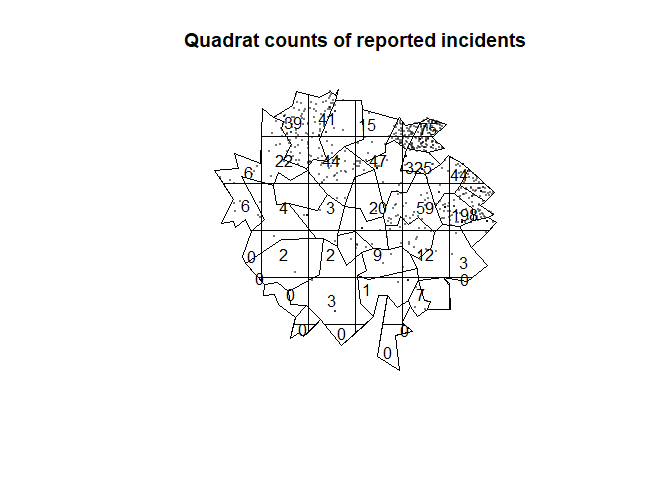
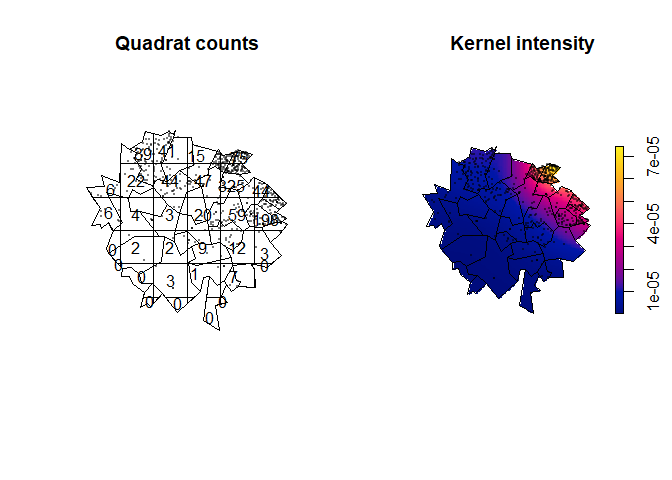
Draft 1

diff --git a/coursework_02.md b/coursework_02.md
@@ -29,25 +29,20 @@ na_summary <- tibble(dataset = c("incidents", "ward profiles", "ward polygons"),
 profiles_clean <- profiles %>%
   mutate(rental_share = parse_number(rental_share),
          ward_name = str_replace_all(ward_name, "-" , " "))
-
-na_summary
 ```
 
-    # A tibble: 3 × 2
-      dataset       missing_values
-      <chr>                  <int>
-    1 incidents                  0
-    2 ward profiles              6
-    3 ward polygons              0
-
 I loaded the ward boundary polygons, ward profile data and incident
-reports. The incident and ward polygon files had no missing values,
-while the ward profile file had 6 missing values; these were retained
-and handled using available cases where relevant. I converted
-rental_share from percentage text to a numeric variable. I also
-standardized ward names in the profile file by replacing hyphens with
-spaces, although later joins use ward_id rather than ward_name to avoid
-relying on name formatting.
+reports.
+
+The incident and ward polygon files had no missing values, while the
+ward profile file had 6 missing values; these were retained and handled
+using available cases where relevant.
+
+I converted rental_share from percentage text to a numeric variable.
+
+I also standardized ward names in the profile file by replacing hyphens
+with spaces, although later joins use ward_id rather than ward_name to
+avoid relying on name formatting.
 
 # Task 1
 
@@ -85,35 +80,34 @@ wards_incident <- wards %>%
          area_km2 = as.numeric(st_area(geometry))/1000000,
          incident_density =  n_incidents / area_km2)
 
-#kernel-smoothed intensity for ppp and quadrat with 4cm
+#kernel-smoothed intensity for ppp and quadrat
 wards_window <- as.owin(st_union(wards))
 incident_coords = st_coordinates(incidents_sf)
+incident_ppp <-  ppp( x = incident_coords[,1] , y =incident_coords[,2] , window = wards_window)
 
-incident_ppp = ppp( x = incident_coords[,1] , y =incident_coords[,2] , window = wards_window)
-
+incident_intensity <-  density.ppp( x = incident_ppp , edge= TRUE)
 incident_quadrat6 <- quadratcount( incident_ppp, nx=6 , ny=6 )
-plot(incident_ppp,pch = 16,cex = 0.25,main = "Quadrat counts of reported incidents")
+
+par(mfrow = c(1,2))
+plot(incident_ppp, main = "", pch=16, cex=0.25)
+title("Quadrat counts", line = 1.5)
 plot(incident_quadrat6, add = TRUE)
 plot(st_geometry(wards),add = TRUE,lwd = 0.5)
-```
 
-![](coursework_02_files/figure-commonmark/task-1-code-1.png)
-
-``` r
-incident_intensity = density.ppp( x = incident_ppp , edge= TRUE)
-plot(incident_intensity,main = "Kernel-smoothed intensity of reported incidents")
+plot(incident_intensity,main = "")
+title("Kernel intensity", line = 1.5)
 plot(st_geometry(wards),add = TRUE,lwd = 0.5)
 plot(incident_ppp, add = TRUE, pch = 16,cex = 0.25)
 ```
 
-![](coursework_02_files/figure-commonmark/task-1-code-2.png)
+![](coursework_02_files/figure-commonmark/task-1-code-1.png)
 
 ``` r
 top_wards <- wards_incident %>% 
   st_drop_geometry() %>% 
   arrange(desc(n_incidents)) %>% 
   select(ward_id,ward_name, n_incidents, incident_density) %>% 
-  slice_head(n=10)
+  slice_head(n=5)
 
 top_wards %>%
   mutate(incident_density = round(incident_density, 1)) %>%
@@ -123,18 +117,13 @@ top_wards %>%
   )
 ```
 
-| Ward ID | Ward         | Incidents | Incident density |
-|:--------|:-------------|----------:|-----------------:|
-| W17     | Maple Cross  |       337 |            222.9 |
-| W25     | Saffron Lea  |       110 |            111.9 |
-| W08     | Market End   |        96 |             17.8 |
-| W11     | Hazel Row    |        95 |             55.6 |
-| W16     | Foxley       |        57 |             59.0 |
-| W26     | Mill Court   |        38 |             17.1 |
-| W13     | East Hollow  |        34 |             34.3 |
-| W02     | Riverstead   |        33 |              9.1 |
-| W28     | Falcon Heath |        27 |              8.8 |
-| W22     | Willow Bank  |        26 |              7.1 |
+| Ward ID | Ward        | Incidents | Incident density |
+|:--------|:------------|----------:|-----------------:|
+| W17     | Maple Cross |       337 |            222.9 |
+| W25     | Saffron Lea |       110 |            111.9 |
+| W08     | Market End  |        96 |             17.8 |
+| W11     | Hazel Row   |        95 |             55.6 |
+| W16     | Foxley      |        57 |             59.0 |
 
 Highest incident wards by coordinate-based ward assignment.
 
@@ -167,6 +156,14 @@ top_5_share
       share
       <dbl>
     1  70.4
+
+I converted the incident coordinates into an sf point layer using the
+same CRS as the ward polygons, then spatially joined each incident to
+the ward polygon containing it. This was preferred to relying only on
+the recorded ward name because 39 incidents had a recorded ward name
+that differed from the coordinate-based ward assignment. Subsequent ward
+counts therefore use the spatially assigned ward, so the analysis
+reflects the actual incident locations.
 
 The incident records were treated as point pattern data, since each row
 records an event location. A 6 × 6 quadrat count showed strong spatial
@@ -235,18 +232,7 @@ scree_plot
 
 ``` r
 library(patchwork)
-```
 
-    Warning: package 'patchwork' was built under R version 4.4.3
-
-
-    Attaching package: 'patchwork'
-
-    The following object is masked from 'package:spatstat.geom':
-
-        area
-
-``` r
 loadings <- data.frame(
     variable = rownames(profile_pca$rotation),
     PC1 = profile_pca$rotation[, 1],
@@ -357,31 +343,8 @@ exemplery_wards <-  wards_data_pca %>%
 
 
 priority_wards
-```
-
-    # A tibble: 2 × 14
-      ward_name   n_incidents incident_density   PC1    PC2 profile_score
-      <chr>             <int>            <dbl> <dbl>  <dbl>         <dbl>
-    1 Maple Cross         337             223.  3.08 -0.814          3.90
-    2 Saffron Lea         110             112.  1.21 -1.35           2.56
-    # ℹ 8 more variables: unemployment_rate <dbl>, deprivation_score <dbl>,
-    #   rental_share <dbl>, population_density <dbl>, transport_access <dbl>,
-    #   lighting_coverage <dbl>, distance_police_hub <dbl>,
-    #   listed_building_share <dbl>
-
-``` r
 exemplery_wards
 ```
-
-    # A tibble: 2 × 14
-      ward_name    n_incidents incident_density   PC1    PC2 profile_score
-      <chr>              <int>            <dbl> <dbl>  <dbl>         <dbl>
-    1 Bracken Vale           0                0 -3.54 -0.394         -3.15
-    2 Canal Side             0                0 -2.94 -0.733         -2.20
-    # ℹ 8 more variables: unemployment_rate <dbl>, deprivation_score <dbl>,
-    #   rental_share <dbl>, population_density <dbl>, transport_access <dbl>,
-    #   lighting_coverage <dbl>, distance_police_hub <dbl>,
-    #   listed_building_share <dbl>
 
 The clearest priority areas are Maple Cross and Saffron Lea. Maple Cross
 had 337 incidents and 222.9 incidents per km², while Saffron Lea had 110
@@ -412,4 +375,4 @@ fixes.
 
 Add references only if needed.
 
-    **Prose Word Count:** 748 words (252 words under the 1000-word limit)
+    **Prose Word Count:** 820 words (180 words under the 1000-word limit)
